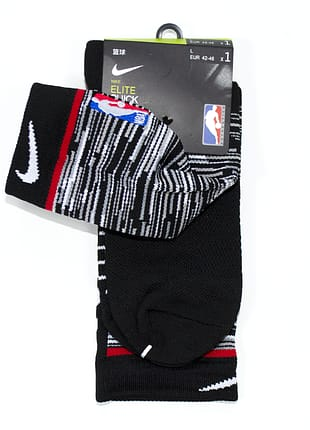
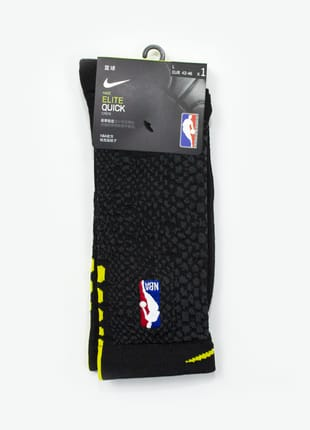
Merch: client ball images, equipment and apparel, court quote via WhatsApp
Made-with: Cursor

diff --git a/lib/merchandise.ts b/lib/merchandise.ts
@@ -3,12 +3,19 @@
  * Images: client photos in /public/merch where available; otherwise Unsplash product-style shots.
  */
 
-export type MerchCategory = "balls" | "apparel" | "protection" | "officiating";
+export type MerchCategory =
+  | "balls"
+  | "apparel"
+  | "equipment"
+  | "protection"
+  | "officiating"
+  | "services";
 
 export interface Product {
   id: string;
   name: string;
   shortDescription: string;
+  /** Use 0 when contactForQuote (not sold via cart). */
   priceKes: number;
   category: MerchCategory;
   imageUrl: string;
@@ -17,6 +24,8 @@ export interface Product {
   sizes?: string[];
   /** Colour variants or stock note (shown under description) */
   variantNote?: string;
+  /** Not purchasable online — show contact / quote CTA instead of cart. */
+  contactForQuote?: boolean;
 }
 
 const US = "https://images.unsplash.com";
@@ -28,20 +37,24 @@ function u(photoId: string, w = 900): string {
 export const MERCH_CATEGORIES: { id: MerchCategory; label: string }[] = [
   { id: "balls", label: "Basketballs & balls" },
   { id: "apparel", label: "Socks & apparel" },
+  { id: "equipment", label: "Equipment & bags" },
   { id: "protection", label: "Protection" },
   { id: "officiating", label: "Officiating" },
+  { id: "services", label: "Court builds" },
 ];
 
 export const PRODUCTS: Product[] = [
   // Basketballs & other balls — stock photos (replace with client pack shots anytime)
   {
     id: "ball-spalding",
-    name: "Spalding Basketball",
-    shortDescription: "Official-style leather composite ball — indoor/outdoor use.",
+    name: "Spalding NBA Street Performance Outdoor",
+    shortDescription:
+      "NBA Street line — performance outdoor grip, durable cover for concrete and asphalt.",
     priceKes: 2500,
     category: "balls",
-    imageUrl: u("photo-1650566924908-db62de4863af"),
-    imageAlt: "Basketball on a clean white background",
+    imageUrl: "/merch/ball-spalding-nba-street.png",
+    imageAlt:
+      "Spalding NBA Street Performance Outdoor basketball on white background",
     sizes: ["Size 5 (Youth)", "Size 6 (Women)", "Size 7 (Men)"],
   },
   {
@@ -57,41 +70,49 @@ export const PRODUCTS: Product[] = [
   {
     id: "ball-molten-bg4500",
     name: "Molten BG4500",
-    shortDescription: "Premium composite leather — FIBA-style indoor game ball.",
+    shortDescription:
+      "FIBA Approved Level 1 (2023–2027) premium composite — competition indoor game ball.",
     priceKes: 4500,
     category: "balls",
-    imageUrl: u("photo-1574629810360-7efbbe195018"),
-    imageAlt: "Basketball on a hardwood court",
+    imageUrl: "/merch/ball-molten-bg4500.png",
+    imageAlt:
+      "Molten BG4500 basketball with FIBA Approved and competition composite branding",
     sizes: ["Size 6 (Women)", "Size 7 (Men)"],
   },
   {
     id: "ball-molten-d3500-outdoor",
     name: "Molten D3500 Outdoor",
-    shortDescription: "Tough rubber cover for asphalt and outdoor courts.",
+    shortDescription:
+      "Built tough for outdoor conditions — durable cover for asphalt and street courts.",
     priceKes: 6999,
     category: "balls",
-    imageUrl: u("photo-1595795279832-13f0df36fbb9"),
-    imageAlt: "Basketball on outdoor concrete",
+    imageUrl: "/merch/ball-molten-d3500-outdoor.png",
+    imageAlt:
+      "Molten D3500 Outdoor basketball with D 3500 OUTDOOR branding on black background",
     sizes: ["Size 6 (Women)", "Size 7 (Men)"],
   },
   {
     id: "ball-football",
     name: "Football (soccer ball)",
-    shortDescription: "Training football for drills and casual play.",
+    shortDescription:
+      "Kipsta official replica — UEFA Europa League design. Great for training and casual play.",
     priceKes: 2500,
     category: "balls",
-    imageUrl: u("photo-1551698618-1dfe5d97d256"),
-    imageAlt: "Soccer ball on grass",
+    imageUrl: "/merch/ball-football-kipsta-europa.png",
+    imageAlt:
+      "Kipsta UEFA Europa League official replica soccer ball on white background",
     sizes: ["Size 4 (Youth)", "Size 5 (Official)"],
   },
   {
     id: "ball-volleyball",
-    name: "Volleyball",
-    shortDescription: "Indoor/outdoor volleyball — academy stock.",
+    name: "Mikasa MV210 Volleyball",
+    shortDescription:
+      "Regular performance indoor ball — FIVB official ball designation on model.",
     priceKes: 2500,
     category: "balls",
-    imageUrl: u("photo-1612872087720-bb876e2e67d1"),
-    imageAlt: "Volleyball ball",
+    imageUrl: "/merch/ball-volleyball-mikasa-mv210.png",
+    imageAlt:
+      "Mikasa MV210 volleyball navy yellow and white with FIVB official ball marking",
     sizes: ["Standard"],
   },
   // Apparel — client photo (soft dotted / Kobe Elite line)
@@ -130,19 +151,99 @@ export const PRODUCTS: Product[] = [
     imageAlt: "Clear mouldable mouthguard on a table (stock photo)",
     sizes: ["Youth", "Adult"],
   },
-  // Officiating — client photo (Fox 40 CMG, multi-colour sheet)
+  // Officiating — Molten Blazza (client photo)
   {
-    id: "whistle-fox40-cmg",
-    name: "Fox 40 CMG Whistle",
+    id: "whistle-molten-blazza",
+    name: "Molten Blazza Whistle",
     shortDescription:
-      "Pealess official whistle — cushioned mouth grip. Used in NBA, FIBA, and many leagues.",
+      "Professional pea-less referee whistle — sharp, consistent tone. Includes black lanyard.",
     priceKes: 1000,
     category: "officiating",
-    imageUrl: "/merch/whistle-fox40-colors.png",
-    imageAlt: "Fox 40 CMG whistles in yellow, blue, black, and red",
-    sizes: ["Yellow", "Blue", "Black", "Red"],
+    imageUrl: "/merch/whistle-molten-blazza.png",
+    imageAlt: "Molten Blazza black whistle with black braided lanyard",
+  },
+
+  // Equipment — client photos (prices are indicative Kenya retail estimates unless confirmed)
+  {
+    id: "rim-net-set-wall-mount",
+    name: "Basketball rim & net set",
+    shortDescription:
+      "Heavy-duty rim with tri-colour net and spare net — wall/backboard mount bracket.",
+    priceKes: 5500,
+    category: "equipment",
+    imageUrl: "/merch/equipment-rim-net-set.png",
+    imageAlt:
+      "Red metal basketball rim with red white blue net and spare net on white background",
     variantNote:
-      "Pick a colour when you order — stock rotates; we’ll confirm if your first choice is unavailable.",
+      "Indicative Kenya market price — we’ll confirm before payment. Hardware as shown.",
+  },
+  {
+    id: "backpack-nike-elite-basketball",
+    name: "Nike Elite basketball backpack",
+    shortDescription:
+      "Large team bag — separate shoe/ball compartment, vented side pocket, durable shell.",
+    priceKes: 10500,
+    category: "equipment",
+    imageUrl: "/merch/backpack-nike-elite-silver.png",
+    imageAlt: "Black Nike Elite backpack with silver swoosh and ELITE lettering",
+    variantNote: "Indicative Kenya retail estimate — confirm colour/stock when ordering.",
+  },
+
+  // Apparel — NBA socks & balaclava (client photos)
+  {
+    id: "socks-nike-elite-quick-nba-black",
+    name: "Nike Elite Quick NBA crew socks (pair)",
+    shortDescription:
+      "NBA Logoman — black knit with yellow accents; Elite Quick cushioning.",
+    priceKes: 1900,
+    category: "apparel",
+    imageUrl: "/merch/socks-nike-elite-quick-nba-black.png",
+    imageAlt:
+      "Nike Elite Quick NBA crew socks black with yellow details on retail tag",
+    sizes: ["S", "M", "L (EUR 42–46)"],
+    variantNote:
+      "Indicative price vs local Nike/NBA stockists. Size subject to availability.",
+  },
+  {
+    id: "socks-nike-elite-quick-nba-marled",
+    name: "Nike Elite Quick NBA crew socks — marled (pair)",
+    shortDescription:
+      "NBA Logoman — marled black/grey/white pattern with red stripe accents.",
+    priceKes: 1900,
+    category: "apparel",
+    imageUrl: "/merch/socks-nike-elite-quick-nba-marled.png",
+    imageAlt:
+      "Nike Elite Quick NBA crew socks with marled pixel pattern on packaging",
+    sizes: ["S", "M", "L (EUR 42–46)"],
+    variantNote:
+      "Second colourway — same line as Elite Quick NBA. Stock may rotate.",
+  },
+  {
+    id: "balaclava-nike-performance-black",
+    name: "Nike performance balaclava (black)",
+    shortDescription:
+      "Full head and neck coverage — lightweight stretch fabric, Dri-FIT-style wear.",
+    priceKes: 3200,
+    category: "apparel",
+    imageUrl: "/merch/balaclava-nike-black.png",
+    imageAlt: "Black Nike balaclava with white swoosh on white background",
+    sizes: ["One size"],
+    variantNote: "Indicative Kenya retail estimate for Nike hood/balaclava styles.",
+  },
+
+  // Services — court construction (quote only)
+  {
+    id: "service-court-construction",
+    name: "Outdoor basketball court construction",
+    shortDescription:
+      "Design and build outdoor courts — surfacing, hoops, fencing, and lighting options.",
+    priceKes: 0,
+    category: "services",
+    imageUrl: "/merch/service-court-build.png",
+    imageAlt: "Outdoor basketball court with blue surface glass backboards and floodlights",
+    contactForQuote: true,
+    variantNote:
+      "Tell us location, size, and budget — we’ll scope materials and timeline.",
   },
 ];
 
@@ -158,6 +259,12 @@ export function formatKes(amount: number): string {
   }).format(amount);
 }
 
+/** Price line for product cards (quote-only services have no cash price). */
+export function formatProductPrice(product: Product): string {
+  if (product.contactForQuote) return "Contact for quote";
+  return formatKes(product.priceKes);
+}
+
 export const MPESA_CONFIG = {
   businessName: "ANSA Basketball Academy",
   tillNumber: "0000000",
@@ -167,6 +274,14 @@ export const MPESA_CONFIG = {
   supportWhatsAppHint:
     "After paying, send your order number and M-Pesa confirmation SMS to WhatsApp for fulfilment.",
 } as const;
+
+/** E.164 without + for wa.me links (254… Kenya). */
+export const WHATSAPP_E164_LOCAL = "254718082452";
+
+export function whatsappInquiryUrl(message: string): string {
+  const q = encodeURIComponent(message);
+  return `https://wa.me/${WHATSAPP_E164_LOCAL}?text=${q}`;
+}
 
 export function lineKey(productId: string, size?: string): string {
   return `${productId}::${size ?? "__default__"}`;

diff --git a/components/merchandise/merchandise-shop.tsx b/components/merchandise/merchandise-shop.tsx
@@ -2,14 +2,17 @@
 
 import Image from "next/image";
 import { useMemo, useState } from "react";
+import Link from "next/link";
 import {
   MERCH_CATEGORIES,
   PRODUCTS,
-  formatKes,
+  formatProductPrice,
+  whatsappInquiryUrl,
   type MerchCategory,
   type Product,
 } from "@/lib/merchandise";
-import { Button } from "@/components/ui/button";
+import { Button, buttonVariants } from "@/components/ui/button";
+import { cn } from "@/lib/utils";
 import { useMerchCart } from "./cart-context";
 
 export function MerchandiseShop() {
@@ -24,10 +27,10 @@ export function MerchandiseShop() {
   return (
     <div className="mx-auto max-w-6xl px-4 py-10">
       <p className="mb-6 text-center text-sm text-gray-600 md:text-base">
-        Official ANSA stock — balls, socks, protection, and officiating gear.
-        Add items to your cart, then pay with{" "}
-        <strong className="text-[#001F3F]">M-Pesa</strong> using your order
-        number.
+        Official ANSA stock — balls, apparel, equipment, protection, and
+        officiating. Add priced items to your cart and pay with{" "}
+        <strong className="text-[#001F3F]">M-Pesa</strong>. Court builds and
+        custom quotes: WhatsApp us from the listing.
       </p>
 
       {/* Category filters */}
@@ -91,7 +94,7 @@ export function MerchandiseShop() {
                 </p>
               ) : null}
               <p className="mt-4 text-xl font-bold text-[#0066CC]">
-                {formatKes(product.priceKes)}
+                {formatProductPrice(product)}
               </p>
               <ProductAddControls product={product} onAdd={addItem} />
             </div>
@@ -113,6 +116,33 @@ function ProductAddControls({
   const hasSizes = Boolean(product.sizes?.length);
   const optionLabel =
     product.category === "officiating" ? "Colour" : "Size";
+
+  if (product.contactForQuote) {
+    const wa = whatsappInquiryUrl(
+      `Hi ANSA — I'd like a quote for: ${product.name}`
+    );
+    return (
+      <div className="mt-4 space-y-3 border-t border-gray-100 pt-4">
+        <Link
+          href={wa}
+          target="_blank"
+          rel="noopener noreferrer"
+          className={cn(
+            buttonVariants(),
+            "w-full bg-[#25D366] font-semibold text-white hover:bg-[#20bd5a]"
+          )}
+        >
+          WhatsApp — request quote
+        </Link>
+        <p className="text-center text-xs text-gray-500">
+          Or call{" "}
+          <a href="tel:+254718082452" className="text-[#0066CC] underline">
+            +254 718 082 452
+          </a>
+        </p>
+      </div>
+    );
+  }
 
   return (
     <div className="mt-4 space-y-3 border-t border-gray-100 pt-4">

diff --git a/components/merchandise/cart-context.tsx b/components/merchandise/cart-context.tsx
@@ -76,7 +76,7 @@ export function MerchandiseCartProvider({ children }: { children: ReactNode }) {
   const addItem = useCallback(
     (productId: string, quantity = 1, size?: string) => {
       const product = getProductById(productId);
-      if (!product) return;
+      if (!product || product.contactForQuote) return;
       const defaultSize = product.sizes?.[0];
       const resolvedSize = product.sizes?.length ? size ?? defaultSize : undefined;
 
@@ -131,7 +131,9 @@ export function MerchandiseCartProvider({ children }: { children: ReactNode }) {
       const product = getProductById(line.productId);
       if (!product) continue;
       linesWithProducts.push({ line, product });
-      subtotalKes += product.priceKes * line.quantity;
+      if (!product.contactForQuote) {
+        subtotalKes += product.priceKes * line.quantity;
+      }
       itemCount += line.quantity;
     }
     return {
